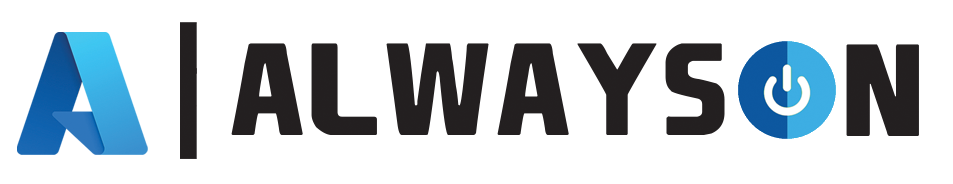
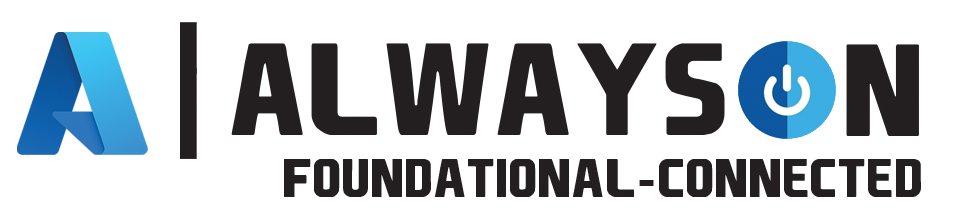
Content update reference implementation (#19)

diff --git a/docs/reference-implementation/README.md b/docs/reference-implementation/README.md
@@ -1,8 +1,8 @@
 # AlwaysOn - Reference Implementation - Solution Guide
 
-As outlined in the [AlwaysOn introduction](../introduction/README.md), AlwaysOn has been developed to help customers with business critical systems to design and build a best practice Azure based solution that maximizes reliability. AlwaysOn does this by giving customers prescriptive and opinionated guidance on how to build this best practice system as well as providing production ready technical artifacts for customers to quickly build that best practice system in their own environment.
+As outlined in the [AlwaysOn introduction](https://github.com/Azure/AlwaysOn/blob/main/docs/introduction/README.md) (➡ `Azure/AlwaysOn`), AlwaysOn has been developed to help customers with business critical systems to design and build a best practice Azure based solution that maximizes reliability. AlwaysOn does this by giving customers prescriptive and opinionated guidance on how to build this best practice system as well as providing production ready technical artifacts for customers to quickly build that best practice system in their own environment.
 
-Where the AlwaysOn [Design Principles](../design-guidelines/Principles.md) provides the thought and justification behind the AlwaysOn architecture and product choices, this part of the repository tells you how to build your own Production-ready AlwaysOn solution using the technical artifacts provided within this repository i.e. Infrastructure-As-Code templates and CI/CD pipelines (via GitHub and Azure DevOps).
+Where the AlwaysOn [Design Principles](https://github.com/Azure/AlwaysOn/blob/main/docs/design-methodology/Principles.md) (➡ `Azure/AlwaysOn`) provides the thought and justification behind the AlwaysOn architecture and product choices, this part of the repository tells you how to build your own Production-ready AlwaysOn solution using the technical artifacts provided within this repository i.e. Infrastructure-As-Code templates and CI/CD pipelines (via GitHub and Azure DevOps).
 
 As with the AlwaysOn Design Guidelines, the Reference Implementation section is divided into 8 Critical Design Areas, each giving clear instructions on how the solution is configured.  When you are ready to start, the [Getting Started](./Getting-Started.md) guide outlines the process and required steps to deploy AlwaysOn in your environment, including preparing Azure DevOps pipelines.
 
@@ -10,37 +10,35 @@ As with the AlwaysOn Design Guidelines, the Reference Implementation section is 
 
 ### Application Design
 
-- [Application Design](AppDesign-Application-Design.md)
-- [Business Continuity/ Disaster Recovery](AppDesign-BCDR-Global.md)
-- [SLO and Availability](AppDesign-SLO-Availability.md)
-
+- [Application Design](./AppDesign-Application-Design.md)
+- [Business Continuity/ Disaster Recovery](./AppDesign-BCDR-Global.md)
+- [SLO and Availability](./AppDesign-SLO-Availability.md)
 
 ### Application Platform
 
-- [General Design Decisions](AppPlatform-General-Infrastructure-Design-Decisions.md)
-- [Compute Platform Design Decision](AppPlatform-ComputePlatform-Design-Decisions.md)
+- [Application Platform Design Decisions](/src/infra/README.md)
 
 ### Data Platform
 
-- [Data Platform Design Decisions](DataPlatform-Design-Decisions.md)
+- [Data Platform Design Decisions](./DataPlatform-Design-Decisions.md)
 
 ### Health Modelling
 
-- [Application Health Service](Health-Application-HealthService.md)
-- [Monitoring](Health-Monitoring.md)
-- [Alerting](Health-Alerting.md)
-- [Failure Analysis](Health-Failure-Analysis.md)
+- [Application Health Service](/src/app/AlwaysOn.HealthService/README.md)
+- [Monitoring](./Health-Monitoring.md)
+- [Alerting](./Health-Alerting.md)
+- [Failure Analysis](./Health-Failure-Analysis.md)
 
 ### Deployment and Testing
 
-- [Deployment - DevOps Design Decisions](DeployAndTest-DevOps-Design-Decisions.md)
-- [Deployment - Zero Downtime Update Strategy](DeployAndTest-DevOps-Zero-Downtime-Update-Strategy.md)
-- [Testing - Failure Injection](DeployAndTest-Testing-FailureInjection.md)
+- [Deployment - DevOps Design Decisions](./DeployAndTest-DevOps-Design-Decisions.md)
+- [Deployment - Zero Downtime Update Strategy](./DeployAndTest-DevOps-Zero-Downtime-Update-Strategy.md)
+- [Testing - Failure Injection](./DeployAndTest-Testing-FailureInjection.md)
 
 ### Networking and Connectivity
 
-- [Networking Design Decisions](Networking-Design-Decisions.md)
-- [Networking Custom Domains](Networking-Custom-Domains.md)
+- [Networking Design Decisions](./Networking-Design-Decisions.md)
+- [Networking Custom Domains](./Networking-Custom-Domains.md)
 
 ### Operational Procedures
 

diff --git a/docs/reference-implementation/FAQ.md b/docs/reference-implementation/FAQ.md
@@ -1,22 +1,12 @@
 # Frequently Asked Questions (FAQ)
 
-## Deployment
+In this section we document all the FAQ related to this reference implementation. There is another FAQ section covering general and non reference related questions in the [AlwaysOn repo](https://github.com/Azure/AlwaysOn/blob/docs/main/docs/FAQ.md).
 
-> How is the infrastructure getting deployed?
+## General
 
-The infrastructure is deployed using [Terraform](/src/infra/workload/README.md). Other toolkits like ARM Templates and Bicep were planned but not implemented, yet.
+> Why is the reference implementation called *foundational-connected* and when should I use it?
 
-## Patch & Update
-
-> How is the infrastructure getting updated?
-
-Most infrastructure components used for AlwaysOn are PaaS services and are maintained by Microsoft. Some service like for example Azure Kubernetes Service (AKS) require dedicated maintenance. For AKS this is done via [automatic node image upgrades](https://docs.microsoft.com/azure/aks/upgrade-cluster#set-auto-upgrade-channel) in combination with [planned maintenance windows](https://docs.microsoft.com/azure/aks/planned-maintenance) to automatically update the nodes to the most recent AKS node OS image. Larger changes like an upgrade of the used K8s version are done as-code by changing the K8s version in `.ado/pipeline/config/configuration.yaml` and re-running the infrastructure pipeline.
-
-## Security
-
-> What is used to store secrets in AlwaysOn?
-
-Wherever possible, Azure Managed Identities are used to avoid exposing any sensitive values like Service Principal client secrets (password). All secrets are stored in Azure Key Vault at deployment time via Terraform. These secrets are then loaded into Azure Kubernetes Service as Kubernetes secrets (and where required as environment variables in the pods) or handed over at deployment time as parameters for helm charts etc. Some temporary secrets like for example SSL/TLS certificates managed by [cert-manager](/src/config#cert-manager) are stored within the Kubernetes cluster only.
+AlwaysOn can be leveraged in different scenarios and the reference implementation represent a customer implementation pattern and scenario. You should use the *foundational-connected* reference implementation for a publicly exposed application with connectivity requirement to your on-premises data center. This version takes a dependency on [Enterprise scale landing zones](https://docs.microsoft.com/azure/cloud-adoption-framework/ready/landing-zone/design-area/network-topology-and-connectivity) and deploys the resources into an existing virtual network.
 
 ---
 [AlwaysOn - Full List of Documentation](/docs/README.md)

diff --git a/src/app/AlwaysOn.CatalogService/README.md b/src/app/AlwaysOn.CatalogService/README.md
@@ -32,11 +32,6 @@ In addition to the controllers, an [ASP.NET Core HealthCheck](https://docs.micro
 
 Wherever possible, we use Dependency Injection with interfaces for common services (for example for the message and database service). All implementations are placed in the `AlwaysOn.Shared` class library, so no package references for the actual underlying services such as Cosmos DB are required in the CatalogService.
 
-### API Authorization
-
-To demonstrate how authentication and authorization works, we [implemented Azure AD B2C](/docs/reference-implementation/AppDesign-Application-Design.md#Authentication) selectively on individual APIs within the `GameController`. There are two key initialization steps in `Startup.cs`: adding authentication and adding authorization.
-
-
 ### Logging and tracing
 
 We use the `Microsoft.ApplicationInsights.AspNetCore` NuGet package to get out-of-the-box instrumentation from the Web API. Also, [Serilog](https://github.com/serilog/serilog-extensions-logging) is used for all logging inside the application with Azure Application Insights configured as a sink (in addition to the Console sink). Only when needed to track additional metrics, we use the `TelemetryClient` for ApplicationInsights directly.
@@ -93,10 +88,10 @@ public async Task<ActionResult<CatalogItem>> GetCatalogItemByIdAsyncV2(Guid item
 }
 ```
 
-* Providing version string in the URL is mandatory (e.g. `https://localhost:5000/1.0/catalogitem/` or `https://ao6bd5-global-fd.azurefd.net/api/1.0/catalogitem`).
-* If version is `1.0`, the first implementation will get called (`GetCatalogItemByIdAsync`).
-* If version is `2.0`, the second implementation will get called (`GetCatalogItemByIdAsyncV2`).
-* If version `3.0` is specified on the controller, but no actions map to it, first implementation will be called.
+- Providing version string in the URL is mandatory (e.g. `https://localhost:5000/1.0/catalogitem/` or `https://ao6bd5-global-fd.azurefd.net/api/1.0/catalogitem`).
+- If version is `1.0`, the first implementation will get called (`GetCatalogItemByIdAsync`).
+- If version is `2.0`, the second implementation will get called (`GetCatalogItemByIdAsyncV2`).
+- If version `3.0` is specified on the controller, but no actions map to it, first implementation will be called.
 
 ---
 

diff --git a/README.md b/README.md
@@ -1,8 +1,9 @@
-[![Always On Application](./icon.png "Azure AlwaysOn Foundational Online")](./README.md)
+[![Always On Application](./icon.png "Azure AlwaysOn Foundational Connected")](./README.md)
 
 ## Welcome to Azure AlwaysOn Foundational Connected
 
-AlwaysOn is an open source project that provides a **prescriptive architectural approach to building highly-reliable cloud-native applications on Microsoft Azure for mission-critical workloads**. This repository contains a **Fully Functional Production-Ready AlwaysOn Reference Implementation**, intended to provide a solution oriented basis to showcase mission-critical application development on Microsoft Azure, leveraging Azure-native platform capabilities to maximize reliability and operational effectiveness. More specifically, the reference implementation consists of:
+AlwaysOn is an open source project that provides a **prescriptive architectural approach to building highly-reliable cloud-native applications on Microsoft Azure for mission-critical workloads**. This repository contains the *foundational connected* AlwaysOn reference implementation a **Fully Functional Production-Ready AlwaysOn Reference Implementation**:
+An end-to-end reference implementation intended to provide a solution orientated basis to showcase mission-critical application development on Microsoft Azure, leveraging Azure-native platform capabilities to maximize reliability and operational effectiveness. More specifically, the reference implementation consists of:
 
 - Design and implementation guidance to help readers understand and use the AlwaysOn design methodology in the context of a particular industry scenario.
 - Production-ready technical artifacts including Infrastructure-as-Code (IaC) resources and Continuous-Integration/Continuous-Deployment (CI/CD) pipelines (GitHub and Azure DevOps) to deploy an AlwaysOn application with mature end-to-end operational wrappers.

diff --git a/docs/reference-implementation/AppDesign-Application-Design.md b/docs/reference-implementation/AppDesign-Application-Design.md
@@ -24,7 +24,7 @@ In order to achieve high responsiveness for all operations, AlwaysOn implements 
 - **ASP.NET Core API** is used to implement the producer REST API.
 - **.NET Core Worker Service** is used to implement the consumer service.
 
-Read operations (e.g. *get leaderboard, get player, list games etc.*) are processed directly by the API and immediately return data back to the user.
+Read operations are processed directly by the API and immediately return data back to the user.
 
 ![List games reaches to database directly](/docs/media/application-design-operations-1.png)
 
@@ -33,8 +33,6 @@ High-scale write operations (e.g. *post rating, post comment*) are processed asy
 Messages from the queue are then processed by BackgroundProcessor instances which handle the actual database communication for write operations. The BackgroundProcessor scales in and out dynamically based on message volume on the queue.
 
 ![Post rating is asynchronous](/docs/media/application-design-operations-2.png)
-
-![Delete comment is asynchronous](/docs/media/application-design-operations-3.png)
 
 There is no backchannel which communicates to the client if the operation completed successfully and so the client application has to proactively poll the API to for updates.
 

diff --git a/docs/reference-implementation/Health-Alerting.md b/docs/reference-implementation/Health-Alerting.md
@@ -34,7 +34,7 @@ Metric alerts are limited to the built-in metrics that Azure provides for a give
 - AKS - Unschedulable pods greater than 0 for sustained period
 - Storage Account - Availability dropping under threshold
 
-#### Front Door - Backend Health
+#### Azure Front Door - Backend Health
 
 > This alert is implemented as a sample as part of the reference implementation.
 
